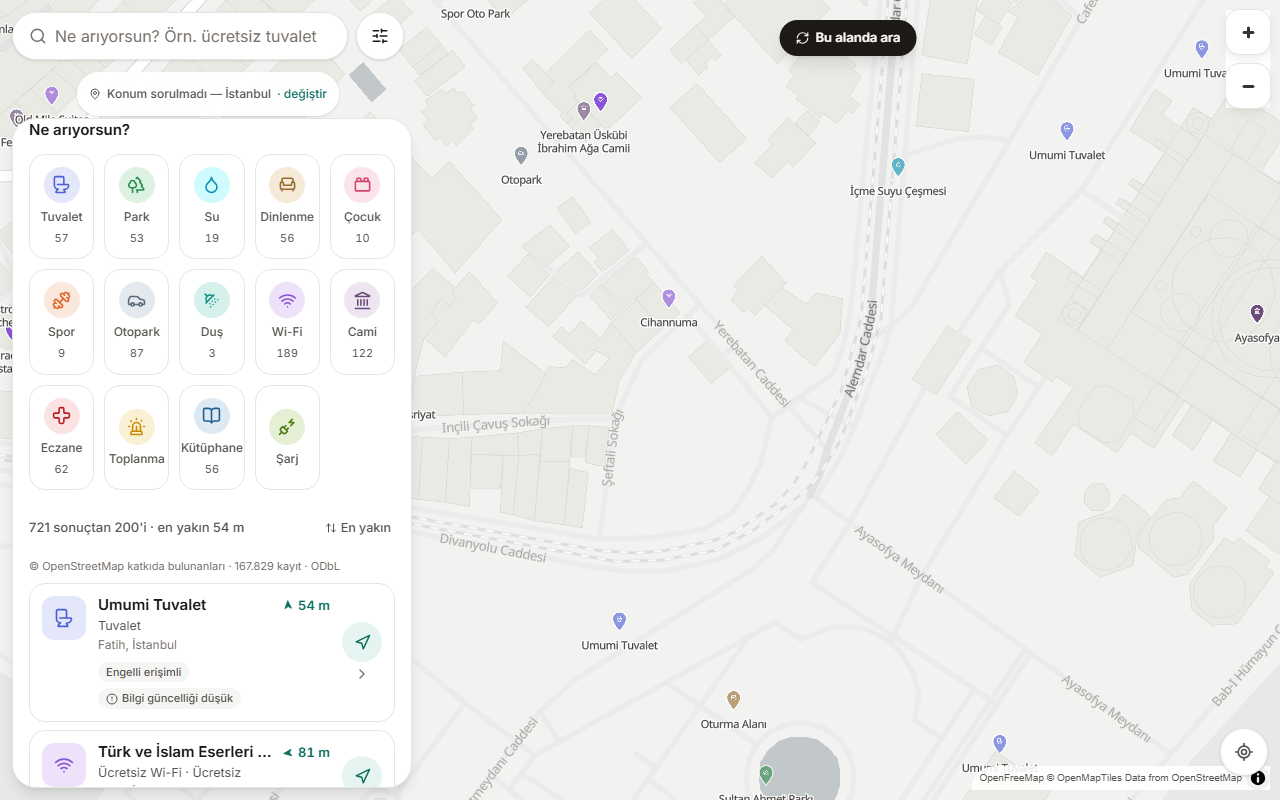
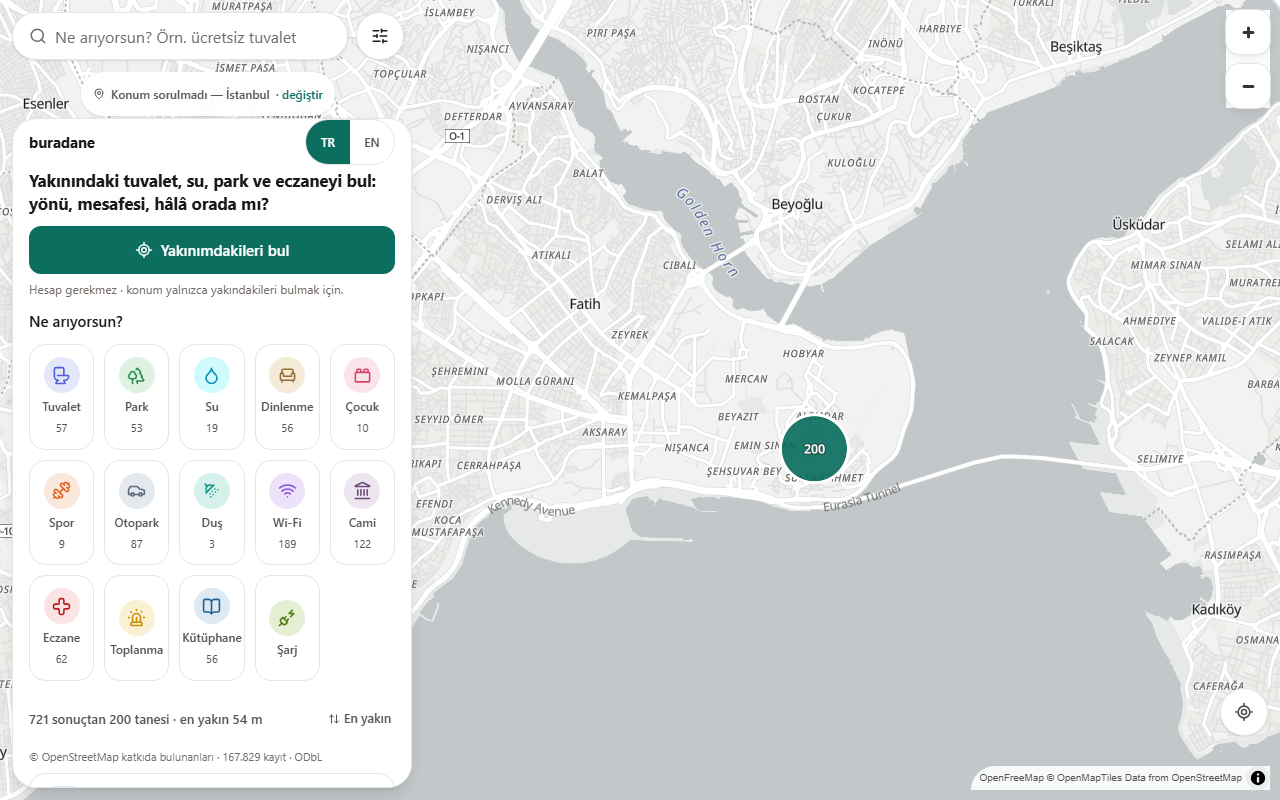
docs: DENETIM ve TASARIM, README görselleri ve kaydı yenilendi, test sayısı 395
- docs/DENETIM.md: README komutları, ana akış, bulgular, erişilebilirlik,
  Lighthouse önce/sonra (5 koşu medyanı), ölçülmeyenler açıkça yazıldı.
- docs/TASARIM.md: hedef, önce/sonra, video sisteminden alınanlar ve alınmayanlar,
  hesaplanan kontrast, dil kabuğu.
- README: demo.gif ve ekran görüntüsü demo-kaydet.mjs ile yeniden üretildi
  (sayılar yeni kayıttan: Park 343, Cami 565, Tuvalet 130, arama 21);
  masaüstü yerleşimini göstermesi için kayıt penceresi 1152x738'e alındı;
  İngilizce görünüm ve test akışı belgelendi.
- CLAUDE.md: iki dilli arayüz kuralı (yeni cümle -> i18n-en.ts).
- project-meta.json: test sayısı 347 -> 395 (119 backend + 276 frontend),
  özet metnindeki bayat "324 tests" de düzeltildi.

diff --git a/docs/DENETIM.md b/docs/DENETIM.md
@@ -1,0 +1,99 @@
+# Denetim: buradane (29 Eylül 2026)
+
+Yenilemeden önce `main`'in (`118c221`) taze bir kopyasında, yerelde ve gerçek tarayıcıda ölçüldü. Ölçülemeyen şey "ölçülmedi" diye yazıldı; ölçülmeyen hiçbir sayı yazılmadı. Ortam: Windows 11, Node 24.19, 8 GB RAM, GPU ve Docker yok.
+
+## README komutları
+
+| Komut | Sonuç |
+|---|---|
+| `cd frontend && npm install` | 43 sn, 0 açık. `unrs-resolver` için "allow-scripts" uyarısı çıkıyor (zararsız, kurulum tamam) |
+| `npm run dev` | 5,5 sn'de hazır; ilk istek 17 sn (Turbopack derlemesi + İstanbul dosyasının soğuk yüklemesi) |
+| `npm test` | 228 test geçti (yenileme sonrası 276). Süre ~5 dk: sorgu motoru testleri gerçek il dosyalarını yüklüyor |
+| `npm run lint` | temiz |
+| `npx tsc --noEmit` | 0 hata |
+| `npm run build` / `npm start` | 53 sn, başarılı; 200 dönüyor |
+| `node scripts/demo-kaydet.mjs` | çalışıyor (Playwright depoda yok; betik açıklayıcı bir hata veriyor, `PLAYWRIGHT_PATH` ile çalıştırıldı). 45 kare üretti, sayılar README'dekilerle eski sürümde birebir tuttu (Park 248, Cami 454, Tuvalet 121, arama 19) |
+| `cd backend && uv sync` | 12 sn |
+| `uv run pytest tests/ -v` | **66 geçti, 53 atlandı** (119 test; atlananlar PostGIS ister, Docker yok, README'de yazdığı gibi "skip", "fail" değil) |
+| `uv run uvicorn app.main:app` | ayağa kalkıyor, `/docs` 200, varsayılan JWT sırrı uyarısı basıyor (beklenen) |
+| `docker compose up -d --wait`, `alembic upgrade head`, `seed_categories`, `turkiye_api`, `osm_overpass`, DB'li uçlar (`/health`, `/places`) | **ölçülmedi**: Docker/PostGIS yok. DB'siz `/health` 60 sn içinde yanıt vermedi (DB bağlantısı bekliyor); bu bir hata olarak değil, ortam sınırı olarak yazıldı |
+
+## Ana akış (gerçek tarayıcı, Chromium/Playwright)
+
+Konum izni ve coğrafi konum emüle edildi (Sultanahmet). 390x844 (telefon) ve 1280x800 (masaüstü):
+
+| Adım | Yenileme öncesi | Sonrası |
+|---|---|---|
+| Açılış | Harita + çip satırı; ne olduğunu söyleyen cümle yok | Tek cümle + tek büyük düğme |
+| Konum ver | Sağ alttaki yuvarlak düğme (etiketsiz simge) | Büyük "Yakınımdakileri bul"; sonuç "Konumundasın" |
+| Kategori seç → yakın sonuçlar | Çalışıyor | Çalışıyor (+ yumuşak liste geçişi) |
+| Yön oku / mesafe | Çalışıyor; kart etiketi "59 m uzaklıkta, güney yönünde" | Aynı (+ İngilizce: "59 m away, to the south") |
+| "Evet, burada" | Düğme kayboluyor, "kaydettik" satırı; odak `<body>`'ye düşüyor; aynı yer ertesi açılışta yeniden isteniyor | `role=status` duyurusu, odak sonuca, güncel sayı, aynı gün hatırlanıyor |
+| Serbest metin ("ÜCRETSİZ TUVALET") | Çalışıyor (büyük harf ve ek) | Çalışıyor, davranış aynı (71 sonuç · en yakın 54 m) |
+| Konum reddedilince | Küçük "değiştir" bağlantısı | Büyük düğme "Şehir seç" olur |
+
+Konsol hataları: hiçbir akışta yok (Playwright `console.error`/`pageerror` + Lighthouse `errors-in-console` 0). Yeni tarayıcı betiği `frontend/scripts/akis-dogrula.mjs`: 21 kontrol, hepsi geçti.
+
+## Bulunan sorunlar ve durum
+
+Yenilemeden önce ölçüldü; hepsi bu değişiklikte düzeltildi (aksi belirtilmedikçe).
+
+1. **Yanlış sabit sayı.** Filtre penceresi "açık kaynak verinin %94'ünde çalışma saati yok" diyordu. Anlık görüntüde 167.835 kayıttan 3.039'unda saat var: **%98,2'sinde yok** (CLAUDE.md §6.4'ün %1,81'iyle uyumlu). Metin ve `categories.ts` yorumu düzeltildi.
+2. **Sayıya yanlış ek.** "721 sonuçtan 200'i": 200 için doğrusu "200'ü"; sayıya ek getiren kalıp yanlış kalıyordu (aynı sınıf bir yorumla zaten belgelenmişti). Kalıp "…sonuçtan 200 tanesi" oldu, ek gereken yer kalmadı.
+3. **Masaüstü yerleşim sıçraması (CLS 0,245).** Sunucu herkese telefon yerleşimini çizip istemci ölçünce kenar çubuğuna sıçratıyordu. Sunucu artık istek başlıklarından cihaz sınıfını tahmin ediyor; yanlışsa istemci ölçümü yine son sözü söyler. CLS 0,245 → 0,007.
+4. **Masaüstü erişilebilirlik 96.** Lighthouse `target-size`: sağ alttaki konum düğmesi haritanın atıf düğmesiyle çakışıyordu. Yukarı alındı; 100.
+5. **Telefonda filtre dokunulmaz oluyordu.** Bir yerin detayından listeye dönünce yer "seçili" kalıyor ve yüzen kartı (panel tam açıkken) ekranın en üstüne, arama kutusu ve filtre düğmesinin üzerine biniyordu. Playwright `click` "başka bir öğe dokunmayı yakalıyor" diye zaman aşımına uğradı. Panel tam açıkken kart gösterilmiyor.
+6. **"Bu alanda ara" hayalet düğmesi.** Uygulamanın kendi yaptığı hareketler (ilk sığdırma, panel dolgusu) de "harita kaydırıldı" sayılıyordu; taze açılmış haritada nedensiz siyah bir düğme duruyordu. Artık yalnızca kullanıcı hareketinde (`originalEvent`) çıkıyor.
+7. **Kontrast.** `--text-muted` açık temada `--surface-sunken` üstünde 4,40:1 (eşik 4,5). Ölçen test eklenince ortaya çıktı; `#736c67` ile 4,73:1.
+8. **Atlama bağlantısı boşa gidiyordu.** Kök düzendeki "Sonuç listesine geç" bağlantısının hedefi (`#sonuclar`) yalnızca harita ekranında var; `/yer/[id]` ve `/admin`'de hiçbir yere gitmiyordu. Harita ekranına taşındı, dile uyuyor.
+9. **README kaydı telefon yerleşimini gösteriyordu.** `demo-kaydet.mjs` 1000 px genişlikte çalışıyor; masaüstü eşiği 1024 olduğu için "yan panel" görseli alt sayfa yerleşimiyle çekiliyordu. 1152x738'e alındı.
+10. **Arama yazılınca kategori ızgarası açık kalıyordu** (masaüstü); ilk sonuç ekranın altına iniyordu. Arama varken ızgara çip satırına dönüyor.
+11. **Yayımlanan test sayısı bayattı**: `project-meta.json` özeti "324 tests", sayı alanı 347 diyordu. İkisi de gerçek koşudan yazıldı (aşağıdaki test bölümü).
+
+Düzeltilmeyen, not düşülen:
+
+- `.github/workflows/frontend.yml` başlık yorumu hâlâ "111 test" diyor (yorum bayat). Yüksek riskli dosya (§10); değiştirilmedi.
+- Mobil ana iş parçacığı (TBT ~3 sn, Lighthouse simüle 4x yavaşlatma): baskın maliyet MapLibre + Next çalışma zamanı betik değerlendirmesi (~1,8 sn, iki büyük parça). Bu çalışmada iyileştirilmedi.
+
+## Erişilebilirlik
+
+| Kontrol | Sonuç |
+|---|---|
+| Lighthouse erişilebilirlik | mobil 100 → 100; masaüstü 96 → 100 |
+| Kontrast (WCAG 2.x, hesaplandı, açık + koyu, 12 çift) | hepsi >= 4,5:1 (`tests/contrast.test.ts`); tek ihlal (madde 7) düzeltildi |
+| Dokunma hedefi | >= 44 px korunuyor; aramayı-temizle düğmesi yalnızca 16 px'lik simge kadardı, 36x44 hedefe çıkarıldı; dil düğmeleri 44 px |
+| Klavye | Doğrulama sonrası odak sonuca taşınıyor (Playwright `activeElement` ölçümü); Escape/Tab tuzağı `use-modal-dialog.ts` ile zaten vardı (değişmedi) |
+| Harita dışı alternatif | Sonuç listesi harita olmadan tam işlevli (ok tuşları, Enter, Escape) ve haritada klavye ile işaretçi gezinmesi var; ikisi de aynen duruyor, ekran okuyucu metinleri İngilizceye de çevrildi |
+| Etiketler | Kartlar "kategori. ad. mesafe, yön. Detayları aç." okuyor; harita tuvali `aria-label` dile uyuyor; sayfada her zaman bir `h1` (görünmez) |
+| Ekran okuyucu ile gerçek dinleme | **ölçülmedi** (yalnızca otomatik denetim ve `role`/`aria` incelemesi) |
+
+## Lighthouse 13.4 (Chrome headless, yerelde `next start`; mobil: simüle yavaş 4G + 4x CPU; 5 koşunun medyanı)
+
+| | Perf | Erişilebilirlik | Best practices | SEO | FCP | LCP | TBT | CLS | Boyut |
+|---|---|---|---|---|---|---|---|---|---|
+| Önce, mobil | 53 | 100 | 100 | 100 | 1,33 s | 4,68 s | 2916 ms | 0,002 | 466 KiB |
+| Sonra, mobil | 52 | 100 | 100 | 100 | 1,34 s | 4,90 s | 3126 ms | 0,002 | 474 KiB |
+| Önce, masaüstü | 63 | 96 | 100 | 100 | 0,36 s | 1,03 s | 521 ms | 0,245 | 466 KiB |
+| Sonra, masaüstü | 76 | 100 | 100 | 100 | 0,36 s | 1,07 s | 478 ms | 0,007 | 475 KiB |
+
+Mobil performans **değişmedi**: koşular arası dağılım (önce 48-54, sonra 51-53) medyan farkından büyük. Masaüstü gerçekten iyileşti (CLS'in düzeltilmesi). Sayfa ağırlığı +8 KiB (dil kabuğu ve katalog). `mcp__lighthouse__*` aracı Windows'ta geçici profil silerken `EPERM` veriyor (rapor yazıldıktan sonra); rapor dosyası esas alınarak elle koşuldu. Harita FPS'i ve etkileşim gecikmesi ayrıca **ölçülmedi** (yalnızca Lighthouse'un TBT/CLS'i ve akış betiğinin doğrulamaları).
+
+## Test
+
+| | Önce | Sonra |
+|---|---|---|
+| Frontend (`vitest`) | 228 | 276 |
+| Backend (`pytest`, yerelde) | 66 geçti / 53 atlandı | aynı (backend'e dokunulmadı; CI'da PostGIS ile 119 geçiyor) |
+
+Yeni: `i18n.test.ts` (14: dil seçimi, katalog kapsamı, yer tutucular, İngilizce sızıntı), `contrast.test.ts` (25), `verified-store.test.ts` (6), `device.test.ts` (3). Tarayıcı akışı: `scripts/akis-dogrula.mjs` (21 kontrol).
+
+## Günlük "Ekosistem denetimi" (#19, Furkiozknn)
+
+Konu ve yorumlarında `buradane` geçen hiçbir bulgu yok; kapatılacak bir şey bulunmadı. (Konudaki diğer depo bulguları bu çalışmanın kapsamı dışında bırakıldı.)
+
+## Kanıt
+
+- Ekran görüntüleri: `D:\Claude Projeleri\proje-yenileme\kanit\buradane\{once,sonra,sonra-en}\` (390x844 ve 1280x800: açılış, kategori, detay, doğrulama öncesi/sonrası, filtre, şehir seçici).
+- Lighthouse ham raporları: `...\kanit\buradane\lighthouse\`.
+- README görselleri (`assets/demo.gif`, `harita-ekran-goruntusu*.png`): `demo-kaydet.mjs` ve akış ekran görüntüleriyle yeniden üretildi.
+- Günlük video hattı: `D:\Claude Projeleri\sosyal\medya\projeler\buradane\ekran.mp4` (1080x1920, H.264 yuv420p, +faststart, ses yok, 18,7 sn, gerçek kullanım; dokunma halkası yalnızca kayıt betiğinde çiziliyor) ve `komutlar.txt` (gerçek komut çıktıları).

diff --git a/docs/TASARIM.md b/docs/TASARIM.md
@@ -1,0 +1,84 @@
+# Tasarım: buradane arayüz yenilemesi (29 Eylül 2026)
+
+## Hedef
+
+Videodan ya da profilden gelen biri sayfayı açtığında **ilk 30 saniyede** şunu anlamalı ve yapabilmeli: "yakınımdaki tuvalet, su, park, eczane nerede — hangi yönde, ne kadar uzakta, bilgi hâlâ doğru mu?" ve **tek büyük düğmeyle** başlamalı ("Yakınımdakileri bul"). Sonrası ürünün zaten iyi olan kısmı: kategori, sonuç listesi, yön oku, "Evet, burada" doğrulaması, serbest metin araması.
+
+Kimlik korunur: derin yeşil-turkuaz marka rengi, sıcak taş yüzeyler, Inter, harita önde. FRK-OS'in siyah-krem-sarı dili yalnızca altbilgideki küçük `buradane · FRK-OS` satırında (mono, listenin sonunda) ve README görsellerinde.
+
+Sözleşmeye dokunulmadı: sorgu sözleşmesi (`/api/places`, `types.ts`), sıralama, güven skoru, Türkçe arama motoru (`places-repository.ts`, `categories.ts` `SEARCH_SYNONYMS`) aynı. Depolama: yeni anahtarlar eklendi (`buradane:dil`, `buradane:dogrulananlar:v1`); mevcut anahtarlar (`buradane:favorites:v1`) değişmedi, taşıma kodu gerekmedi.
+
+## Önce / sonra
+
+| Konu | Önce | Sonra |
+|---|---|---|
+| İlk ekran (telefon) | 190 px'lik şerit: yalnızca kategori çipleri; ne olduğunu söyleyen cümle yok | Panel yarım açık başlar (ilk ziyarette): tek cümlelik değer önermesi, tek büyük "Yakınımdakileri bul" düğmesi, güven satırı ("Hesap gerekmez · konum yalnızca yakındakileri bulmak için"), altında kategoriler |
+| İlk ekran (masaüstü) | Kategori ızgarası; ne olduğunu söyleyen cümle yok | Aynı cümle + düğme, ızgara hemen altında |
+| Konum reddedilince | Düğme yok; küçük "değiştir" bağlantısı | Büyük düğme "Şehir seç"e dönüşür ve şehir seçiciyi açar |
+| Dil | Yalnızca Türkçe | TR + EN, varsayılan tarayıcı dili (`tr*` Türkçe), sunucu `Accept-Language` ile ilk boyamayı doğru dilde yapar, tercih `localStorage` `buradane:dil` |
+| "Evet, burada" | Düğme dokunuşta kayboluyor; "kaydettik" satırı; ertesi açılışta düğme geri geliyor; klavyede odak `<body>`'ye düşüyor | Sonuç `role="status"` ile duyuruluyor, odak sonuca taşınıyor, güncel doğrulama sayısı gösteriliyor, aynı gün aynı yer yeniden açılınca "bugün senin tarafından doğrulandı" (`buradane:dogrulananlar:v1`) |
+| Sonuç sayacı | "200'i" (200'ü olmalı: sayıya ek getirilemez), tek renk | "721 sonuçtan 200 tanesi" / "200 of 721 results"; değişince renk akışı (aşağıda) |
+| Kategori değişimi | Liste bir anda yer değiştirir, kaydırma yerinde kalır | Liste başa döner ve 260 ms'lik yumuşak itme/oturma ile gelir |
+| Arama yazılınca (masaüstü) | Kategori ızgarası açık kalır, ilk sonuç ekranın altına iner | Izgara yerini çip satırına bırakır, sonuç hemen görünür |
+| Harita | Açılışta ve panel değişiminde "Bu alanda ara" hayalet düğmesi | Yalnızca kullanıcı haritayı oynatınca çıkar (`originalEvent`) |
+| Detaydan dönünce (telefon) | Seçili yerin yüzen kartı arama kutusu ve filtre düğmesinin üstüne biniyor; filtre dokunulmaz | Panel tam açıkken yüzen kart gösterilmez |
+| Masaüstü ilk boyama | Sayfa önce telefon yerleşimiyle gelip kenar çubuğuna sıçrıyor (Lighthouse CLS 0,245) | Sunucu cihaz sınıfını tahmin eder (`sec-ch-ua-mobile`/UA), ilk boyama doğru yerleşimde (CLS 0,007) |
+| Masaüstü sağ alt | Konum düğmesi harita atıf düğmesiyle çakışıyor (Lighthouse `target-size`, erişilebilirlik 96) | Düğme yukarı alındı (erişilebilirlik 100) |
+| Soluk metin | `--text-muted` açık temada `--surface-sunken` üstünde 4,40:1 | `#736c67`: 4,73:1 |
+| Atlama bağlantısı | Kök düzende; hedefi (`#sonuclar`) yalnızca harita ekranında var, diğer sayfalarda boşa gidiyordu | Harita ekranının içinde, seçilen dilde |
+
+Ekran görüntüleri: `kanit/buradane/once/`, `sonra/` (TR), `sonra-en/` (EN); mobil 390x844 ve masaüstü 1280x800: açılış, kategori, detay, doğrulama öncesi/sonrası, filtre, şehir seçici.
+
+## Ekranlar
+
+1. **Açılış (soğuk başlangıç)**: değer önermesi, büyük düğme, güven satırı, kategoriler. Kullanıcı bir şey yapınca (konum, şehir, kategori, arama) kapanır; paylaşılan bağlantı ya da yenileme bu ekranı hiç göstermez.
+2. **Sonuçlar**: sayaç, sıralama, kartlar (mesafe + yön oku + açık/kapalı + güven), harita.
+3. **Detay**: yol tarifi, kaydet, paylaş, sorun bildir, "Bu yer hâlâ burada mı?".
+
+## Video sisteminden alınanlar
+
+Kaynak: `sosyal/uret/tema.mjs` ve `sosyal/uret/sahne.js`.
+
+| Ne | Nereden | Nerede kullanıldı |
+|---|---|---|
+| "Harita / plan" temasının renk akışı (turuncu `#ff8c42`, kum `#ffd166`, camgöbeği `#62d6ff`, nane `#7bf1a8`) | `tema.mjs` `harita.akis` | Sonuç sayacı renk akışı (`.count-flow`, 900 ms): iki durak (`--flow-a` → `--flow-b`) sonra normal metin rengine. Video zeminleri koyu olduğu için tonlar şemaya göre yeniden ayarlandı: koyu temada kum + camgöbeği (`#ffd166`, `#62d6ff`), açık temada `#b45309` + marka yeşili `#0b6e5f` |
+| `itme` (kısa yatay/dikey itme) ve `zoom` (yüzde 1,5'lik oturma) geçiş aileleri | `sahne.js` geçişleri | Kategori değişiminde liste geçişi (`.list-swap`: 10 px yukarı itme + `scale(.985)` → 1, 260 ms, `cubic-bezier(.16,1,.3,1)`) |
+
+Bilerek alınmayanlar: glitch, blok, flaş, kararma ve iris. Yürürken tek elle kullanılan bir haritada sert efektin yeri yok; iris masalın "son" kartı için uygundu, burada açıklaması yok. Video temalarının neon/koyu zemin paletleri ürünün kimliğine (yeşil-taş) uymadığı için alınmadı; yalnızca sayaç akışı.
+
+Tüm hareket `prefers-reduced-motion: no-preference` içinde. Azaltılmış harekette animasyon hiç tanımlı değil ve genel kural süreleri zaten sıfıra indiriyor.
+
+### Kontrast (hesaplanan)
+
+`tests/contrast.test.ts`, `globals.css`'teki gerçek token'ları okuyup WCAG göreli parlaklığıyla ölçer; açık ve koyu şema, 12 çift, hepsi >= 4,5:1. Yeni akış renkleri:
+
+| Çift | Açık | Koyu |
+|---|---|---|
+| `--flow-a` / `--surface` | 5,02:1 (`#b45309` / `#ffffff`) | 12,13:1 (`#ffd166` / `#1c1917`) |
+| `--flow-b` / `--surface` | 6,16:1 (`#0b6e5f` / `#ffffff`) | 10,48:1 (`#62d6ff` / `#1c1917`) |
+
+Değerler `contrast()` ile ölçüldü; test eşiği 4,5:1 (payı erimeden yakalamak için bir düzeltme de yapıldı: `--text-muted` açık temada 5,16:1 beyaz, 4,73:1 `--surface-sunken` üstünde).
+
+## Yazı tipi
+
+Değişmedi: Inter (yerel paket `@fontsource-variable/inter`), indirme ve Google Fonts yok. FRK-OS satırı sistem mono yazı tipinde (`font-mono`); League Gothic yerel dosya gerektireceği ve ürün yazı diline uymadığı için kullanılmadı.
+
+## Arayüz dili (TR + EN)
+
+- Türkçe cümle **anahtardır**: `t("Filtreler")` İngilizcede "Filters" verir. Türkçe metin tek kaynak; paralel bir Türkçe tablo yok. `lib/i18n.ts` (saf işlevler), `lib/i18n-en.ts` (katalog), `lib/use-locale.tsx` (`useSyncExternalStore`, `LocaleProvider`).
+- `tests/i18n.test.ts`: kaynaktaki her `t("...")` (ve tablolardan gelen kategori, özellik, uyarı, rapor seçeneği, veri etiketi cümleleri) için İngilizce karşılık var; kullanılmayan çeviri yok; yer tutucular tutarlı; İngilizce değerde sızmış Türkçe harf yok.
+- **Çevrilmeyenler**: mekân adları, adresler ve OSM'den gelen her metin; sayfa `/yer/[id]` (paylaşım sayfası) ve yönetim paneli (yalnızca moderatör, Türkçe). Arama sözcükleri Türkçe kalır: İngilizce arayüzde arama kutusu bunu söyler ("e.g. ücretsiz tuvalet (Turkish)"); İngilizce eşanlamlı uydurulmadı (`SEARCH_SYNONYMS` değişmedi).
+- Kategori ve özellik adları arayüzün sabit sözlüğü olduğu için (14 kategori, 12 özellik) İngilizcesi katalogda; veri değil.
+- Sayı biçimi dile uyar (12.345 / 12,345). Yön sözcükleri (kuzey / north) ve çalışma saati satırları (İngilizcede OSM'nin kendi gün kısaltmaları) dile uyar.
+
+## Kararlar ve sınırlar
+
+- Yeni bağımlılık yok (CLAUDE.md §10). Tarayıcı akış betiği (`scripts/akis-dogrula.mjs`) `demo-kaydet.mjs` gibi Playwright'ı çalışma anında arar.
+- Servis işçisi (`public/sw.js`) değişmedi; kabuk "önce ağ" olduğu için yeni sürüm ilk yenilemede gelir. `VERSION` artırılmadı (önbelleğe yazma kuralı değişmedi).
+- Koyu tema zaten vardı (`prefers-color-scheme`); yeni öğeler token kullanıyor, sabit hex yok.
+- Yerel doğrulama kaydı günün tarihine bağlı ve cihazda: sunucudaki sayı herkes için, "bugün sen doğruladın" yalnızca bu cihaz için.
+- Mobil ana iş parçacığı bloklama süresi (Lighthouse TBT) bu çalışmada iyileşmedi (bkz. DENETIM.md); harita başlatma (MapLibre) baskın.
+
+## Test
+
+Frontend: 228 -> 276 (dil kabuğu, katalog kapsamı, kontrast, cihaz tahmini, doğrulama hafızası). Tarayıcı akışı `scripts/akis-dogrula.mjs` (21 kontrol) ve README kaydı `scripts/demo-kaydet.mjs`.

diff --git a/README.md b/README.md
@@ -2,12 +2,14 @@
 
 # buradane
 
-![buradane demo: İstanbul haritasında kategori seçimi ve serbest metin araması; "ücretsiz tuvalet" yazılınca sonuçlar 19'a iniyor ve harita yeniden kümeleniyor](assets/demo.gif)
+![buradane demo: açılışta tek cümlelik tanım ve "Yakınımdakileri bul" düğmesi, sonra İstanbul haritasında kategori seçimi ve serbest metin araması; "ücretsiz tuvalet" yazılınca sonuçlar 21'e iniyor ve harita yeniden kümeleniyor](assets/demo.gif)
 
 <sub>Gerçek kullanım, montaj değil: <code>node frontend/scripts/demo-kaydet.mjs</code>
-çalışan uygulamayı açıp kendisi kullanıyor. Kayıttaki sayılar da gerçek —
-Park 248 sonuç, Cami 454, Tuvalet 121, ve "ücretsiz tuvalet" araması 19.
-Hepsi 167.829 kayıtlık OpenStreetMap anlık görüntüsünden.</sub>
+çalışan uygulamayı açıp kendisi kullanıyor (1152x738 pencere, konum
+sorulmamış: harita İstanbul'da açılır). Kayıttaki sayılar da gerçek —
+Park 343 sonuç, Cami 565, Tuvalet 130, ve "ücretsiz tuvalet" araması 21.
+Hepsi 167.829 kayıtlık OpenStreetMap anlık görüntüsünden. Sonuçlar görünen
+harita alanına göre sayılır; pencere boyutu değişince sayılar da değişir.</sub>
 
 <details>
 <summary><b>In English</b></summary>
@@ -18,7 +20,9 @@ Hepsi 167.829 kayıtlık OpenStreetMap anlık görüntüsünden.</sub>
 
 - **167,829 real OpenStreetMap places across all 81 provinces.** Each province is fetched from its own official OSM boundary rather than a box around its capital; the box approach saw only 2.2% of the country. 973 of 973 district centres have data within 15 km.
 - **Every result answers two questions:** which way to go (a bearing arrow, distance and walking time) and whether the information is still true (one-tap "yes, it's here" confirmation, a freshness label, the source and a reliability score).
-- **Free-text search in Turkish.** Typing *ücretsiz tuvalet* ("free toilet") narrows the map in the demo above to the 19 nearest. Turkish casing and suffixes are handled: "KADIKÖY" matches "Kadıköy", and *çocuğumla* ("with my child") is recognised as *çocuk*.
+- **Free-text search in Turkish.** Typing *ücretsiz tuvalet* ("free toilet") narrows the map in the demo above to the 21 nearest. Turkish casing and suffixes are handled: "KADIKÖY" matches "Kadıköy", and *çocuğumla* ("with my child") is recognised as *çocuk*.
+- **The interface speaks Turkish and English.** It follows the browser language (any `tr*` is Turkish) and a TR/EN switch in the panel remembers the choice. Place names come from OpenStreetMap and are never translated; free-text search understands Turkish words.
+- **One sentence, one button.** The first screen says what the app does and offers a single big action, "Find places near me"; no account, no sign-in.
 - **Two parts, one query contract.** There is a FastAPI + PostGIS backend and a Next.js + MapLibre GL JS demo that already runs end to end on the real data.
 
 ```bash
@@ -49,7 +53,14 @@ bağlanacak şekilde tasarlandı.
 süresi) ve **"bu bilgi hâlâ doğru mu?"** (tek dokunuşla "Evet, burada"
 doğrulaması, tazelik etiketi, kaynak ve güvenilirlik skoru).
 
-![buradane demo: İstanbul Sultanahmet çevresinde gerçek OSM mekanları — tuvalet, otopark, çeşme, cami; sol panelde kategori sayıları](assets/harita-ekran-goruntusu.png)
+![buradane ilk ekran: tek cümlelik tanım, "Yakınımdakileri bul" düğmesi ve İstanbul Sultanahmet çevresinde gerçek OSM mekanlarının kategori sayıları](assets/harita-ekran-goruntusu.png)
+
+Arayüz **Türkçe ve İngilizce**: varsayılan tarayıcı dilidir (`tr*` ise
+Türkçe), panelin üstündeki TR/EN düğmesi tercihi `localStorage`'da
+(`buradane:dil`) saklar. Mekân adları OpenStreetMap'ten geldiği gibi kalır,
+çevrilmez; arama sözcükleri Türkçe'dir. İngilizce görünüm:
+
+![buradane, İngilizce arayüz: "Find the nearest toilet, water, park or pharmacy" tanımı, "Find places near me" düğmesi ve İngilizce kategori adları](assets/harita-ekran-goruntusu-en.png)
 
 > **Kapsam tamamlandı (2026-09-06): 81/81 il**, her biri kendi resmî OSM il
 > sınırından çekildi - il merkezine çizilmiş bir kutudan değil. Ölçülen
@@ -250,7 +261,7 @@ buradane/
 │   │   │   ├── manifest.ts                    # PWA manifest
 │   │   │   └── page.tsx                       # Ana sayfa (URL state'i sunucuda ayrıştırır)
 │   │   ├── components/                        # MapCanvas, AppShell, PlaceCard, PlaceDetail, FilterSheet, CategoryPicker, CityPicker, DirectionArrow, AdminPlaceEditor, ...
-│   │   └── lib/                                # types, places-repository (demo adaptörü), categories, contributions-store, geo, opening-hours, directions, url-state, use-favorites, use-media-query
+│   │   └── lib/                                # types, places-repository (demo adaptörü), categories, contributions-store, geo, opening-hours, directions, url-state, use-favorites, use-media-query, i18n + i18n-en + use-locale (TR/EN), verified-store, device
 │   ├── data/
 │   │   ├── places.<il>.json                   # 81 il dosyası, 167.829 gerçek OSM mekanı
 │   │   ├── meta.json                          # Üretim damgası, lisans, il ve kategori sayıları
@@ -258,7 +269,7 @@ buradane/
 │   │   ├── place-index.json                   # id → il eşlemesi (yalnız id aramasında)
 │   │   └── contributions.json                 # Kullanıcı katkıları + admin override'ları (git'te değil)
 │   ├── public/maplibre/                        # MapLibre worker dosyaları (bkz. "Bilinen Tuhaflıklar")
-│   └── scripts/copy-maplibre-worker.mjs        # predev/prebuild'de otomatik çalışır
+│   └── scripts/                                # copy-maplibre-worker.mjs (predev/prebuild), demo-kaydet.mjs (README kaydı), akis-dogrula.mjs (tarayıcı akışı)
 ├── assets/                   # banner, konsensüs ve bedel diyagramları (bu README'nin görselleri)
 ├── scripts/                  # Demo veri pipeline'ı (bkz. "Veri Pipeline") - backend/app/ingest'ten ayrı, PostGIS'e değil düz JSON'a yazar
 │   ├── fetch_demo_data.py
@@ -435,8 +446,20 @@ uv run pytest tests/ -v
 - **Saf mantık testleri** (`test_reliability.py`, `test_dedup_math.py`) - veritabanı gerektirmez, her ortamda çalışır.
 - **Veritabanı-bağımlı testler** (`test_search.py`, `test_dedup_integration.py`, `test_moderation.py`) - gerçek bir PostGIS bağlantısı gerektirir; `docker compose up -d` çalışıyorsa yerelde, yoksa CI'da (`.github/workflows/ci.yml`, `postgis/postgis` servis konteyneri ile) çalışır. Veritabanı yoksa bu testler **skip** edilir, başarısız olmaz - sahte bir "yeşil" göstermek yerine dürüst bir sinyal.
 
-Frontend tarafında ayrı bir katman daha var: `npm test` Vitest ile bileşen ve
-mantık testlerini, `npm run lint` ise statik denetimi (ESLint) çalıştırır.
+Frontend tarafında ayrı bir katman daha var: `npm test` Vitest ile mantık
+testlerini (dil kabuğu ve çeviri kapsamı, kontrast, cihaz tahmini, doğrulama
+hafızası dahil), `npm run lint` ise statik denetimi (ESLint) çalıştırır.
+
+Ana akış (konum, kategori, yön ve mesafe, "Evet, burada" doğrulaması, dil
+değiştirme, Türkçe arama) gerçek tarayıcıda `frontend/scripts/akis-dogrula.mjs`
+ile doğrulanır. Depo Playwright'ı bağımlılık olarak taşımaz (bkz.
+`demo-kaydet.mjs`); betik onu çalışma anında arar. **Dikkat:** doğrulama adımı
+gerçek bir katkı yazar (`frontend/data/contributions.json`, git'te değil).
+
+```bash
+cd frontend && npm run dev            # başka bir terminalde
+node scripts/akis-dogrula.mjs         # ya da: PLAYWRIGHT_PATH=.../playwright/index.mjs node scripts/akis-dogrula.mjs
+```
 
 ## Güvenlik
 
@@ -514,6 +537,10 @@ sorgunun anlamını sessizce değiştirmek yerine.
 
 <img src="assets/bedel.svg" alt="Konsensüs savunmasının kazandırdığı ve kaybettirdiği: tek bir telefon artık bir mekânın erişilebilirlik verisini tek başına çeviremiyor ve bir adres pencere başına en fazla consensus-1 doğrulama yapabiliyor; buna karşılık tek bir CGNAT adresi arkasındaki ikinci hane aynı mekân için geri çevriliyor, o mekânın konsensüsü başka bir ağdan gelmek zorunda kalıyor." width="100%">
 
+- **Arayüz iki dilli, arama değil.** Serbest metin araması Türkçe sözcükleri
+  anlar (`tuvalet`, `eczane`, `çeşme`); İngilizce eşanlamlı eklenmedi, arama
+  kutusu bunu söyler. Paylaşım sayfası `/yer/[id]` ve yönetim paneli yalnızca
+  Türkçedir. Mekân adları ve adresler OSM'den geldiği gibi gösterilir.
 - ~~Yönetim panelinin görüntülenmesi token istemez~~ **Çözüldü.** Kuyruk
   içerikleri artık `AdminTokenGate` arkasında ve `GET /api/contributions`
   admin token'ı ister; token'sız bir istek hiçbir katkı satırı, not ya da ad

diff --git a/CLAUDE.md b/CLAUDE.md
@@ -96,7 +96,7 @@ buradane/
 │   │   │       ├── contributions/  # Kullanıcı katkıları
 │   │   │       └── admin/          # Moderasyon + mekan düzenleme
 │   │   ├── components/             # İstemci bileşenleri
-│   │   └── lib/                    # Saf mantık — TESTLERİN ODAĞI
+│   │   └── lib/                    # Saf mantık — TESTLERİN ODAĞI (i18n.ts + i18n-en.ts: TR/EN kabuğu)
 │   ├── tests/                      # Vitest paketi
 │   ├── vitest.config.mts
 │   └── package.json
@@ -195,9 +195,15 @@ diske checkpoint atar ve üstel geri çekilme uygular. **Gereksiz yere
 - **Kod yorumları: İngilizce.** Yorum *ne* yapıldığını değil **neden**
   yapıldığını anlatır. Bu depodaki mevcut yorumlar bu standarttadır; onları
   örnek al.
-- **Kullanıcıya görünen her metin: Türkçe**, diakritikler tam ve doğru
+- **Kullanıcıya görünen her metin: Türkçe kaynak**, diakritikler tam ve doğru
   (ı, İ, ğ, Ğ, ü, Ü, ş, Ş, ö, Ö, ç, Ç). "fur" yerine "für" yazmak nasıl
   hataysa, "Kadikoy" yazmak da öyledir.
+- **Arayüz iki dilli (TR + EN).** Türkçe cümle çeviri anahtarıdır:
+  `const { t } = useT(); t("Filtreler")`. Yeni bir cümle eklediğinde
+  `src/lib/i18n-en.ts`'e İngilizcesini de yaz; `tests/i18n.test.ts` eksik,
+  kullanılmayan ya da yer tutucusu tutmayan girdiyi yakalar. Yer adları,
+  adresler ve OSM'den gelen her şey çevrilmez. Yönetim paneli ve `/yer/[id]`
+  Türkçe kalır.
 
 ### 5.2 Adlandırma
 
@@ -522,7 +528,7 @@ Bunları issue açıp tartışmadan PR'a dönüştürme:
 - `frontend/data/contributions.json`'ı elle düzenlemek (çalışma zamanı durumu)
 - Testleri geçirmek için testi zayıflatmak
 - `eslint-disable` eklemek (gerekçesini yazmadan)
-- Kullanıcıya görünen metni İngilizce yazmak
+- Kullanıcıya görünen metni doğrudan İngilizce yazmak (İngilizce yalnızca `i18n-en.ts` kataloğunda durur)
 
 ---
 
